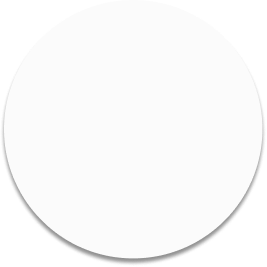
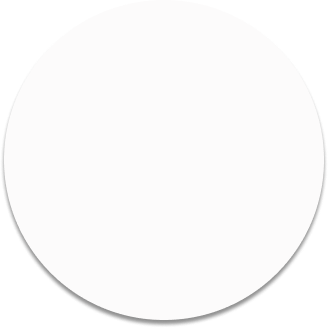
balbla cerchi nuovi

diff --git a/style.css b/style.css
@@ -141,24 +141,26 @@ body {
   position: absolute;
   left: 50%;
   top: 50%;
-  transform: translate(-46%, -50%);
-  z-index: 100;
-  padding-top: 27px;
-  padding-bottom: 27px;
-  padding-left: 20px;
-  padding-right: 20px;
-  border-radius: 100%;
-  font-size: 30px;
+  transform: translate(-50%, -50%);
+  text-align: center;
+  font-size: 15px;
   font-family: "FONT NAME";
-  background-color: rgba(244, 243, 240, 1);
+  padding-top: 24.5px;
+  padding-left: 10px;
+  padding-right: 10px;
+  padding-bottom: 24.5px;
+  border-radius: 100%;
+  border-color: transparent;
+  background-color: #e5e2de;
   color: black;
-  text-decoration: none;
-  font-weight: 200;
+  cursor: pointer;
+  box-shadow: 0px 3px rgb(0 0 0 / 0.2);
+  z-index: 200;
 }
 
 #tastino:hover {
   background-color: black;
-  color: white;
+  color: #e8dfd2;
 }
 
 #schermata2 {

diff --git a/index.html b/index.html
@@ -1,7 +1,7 @@
 <!DOCTYPE html>
 <html>
   <head>
-    <title>ProvaCerchiMagici</title>
+    <title>Echoes</title>
     <link rel="stylesheet" href="style.css" />
     <link
       rel="stylesheet"
